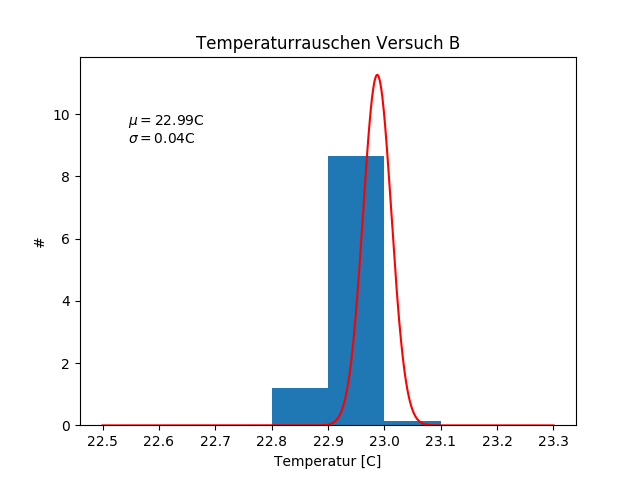
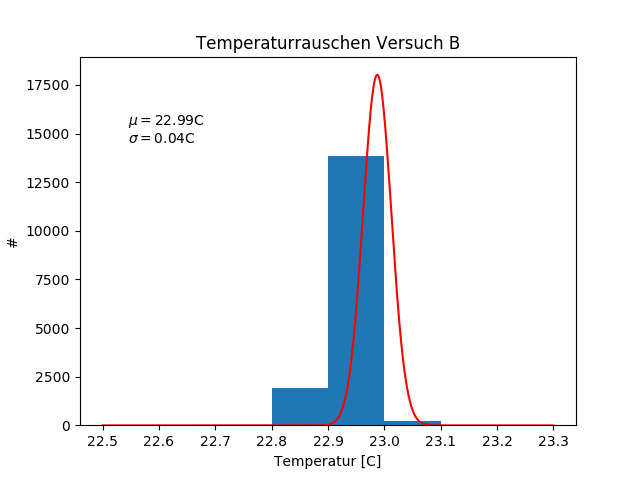
Histogramme

diff --git a/Thermodynamik/Python/Histogramme.py b/Thermodynamik/Python/Histogramme.py
@@ -47,7 +47,7 @@ x=np.linspace(1.5,3,1000)
 bins_a_temp=np.arange(1.5,2.75,0.1)
 plt.figure(2)
 plt.hist(temp_a,bins=bins_a_temp)
-plt.plot(x,gauss(x,m_a_temp,s_a_temp),color='red')
+plt.plot(x,len(temp_a)*0.1*gauss(x,m_a_temp,s_a_temp),color='red')
 plt.xlabel('Temperatur [C]')
 plt.ylabel('#')
 plt.title('Temperaturrauschen Versuch A')
@@ -77,8 +77,8 @@ m_b_temp,s_b_temp=stat(temp_b)
 x=np.linspace(22.5,23.3,1000)
 bins_b_temp=np.arange(22.7,23.3,0.1)
 plt.figure(4)
-plt.hist(temp_b,bins=bins_b_temp,normed=True)
-plt.plot(x,gauss(x,m_b_temp,s_b_temp),color='red')
+plt.hist(temp_b,bins=bins_b_temp)
+plt.plot(x,len(temp_b)*0.1*gauss(x,m_b_temp,s_b_temp),color='red')
 plt.xlabel('Temperatur [C]')
 plt.ylabel('#')
 plt.title('Temperaturrauschen Versuch B')
